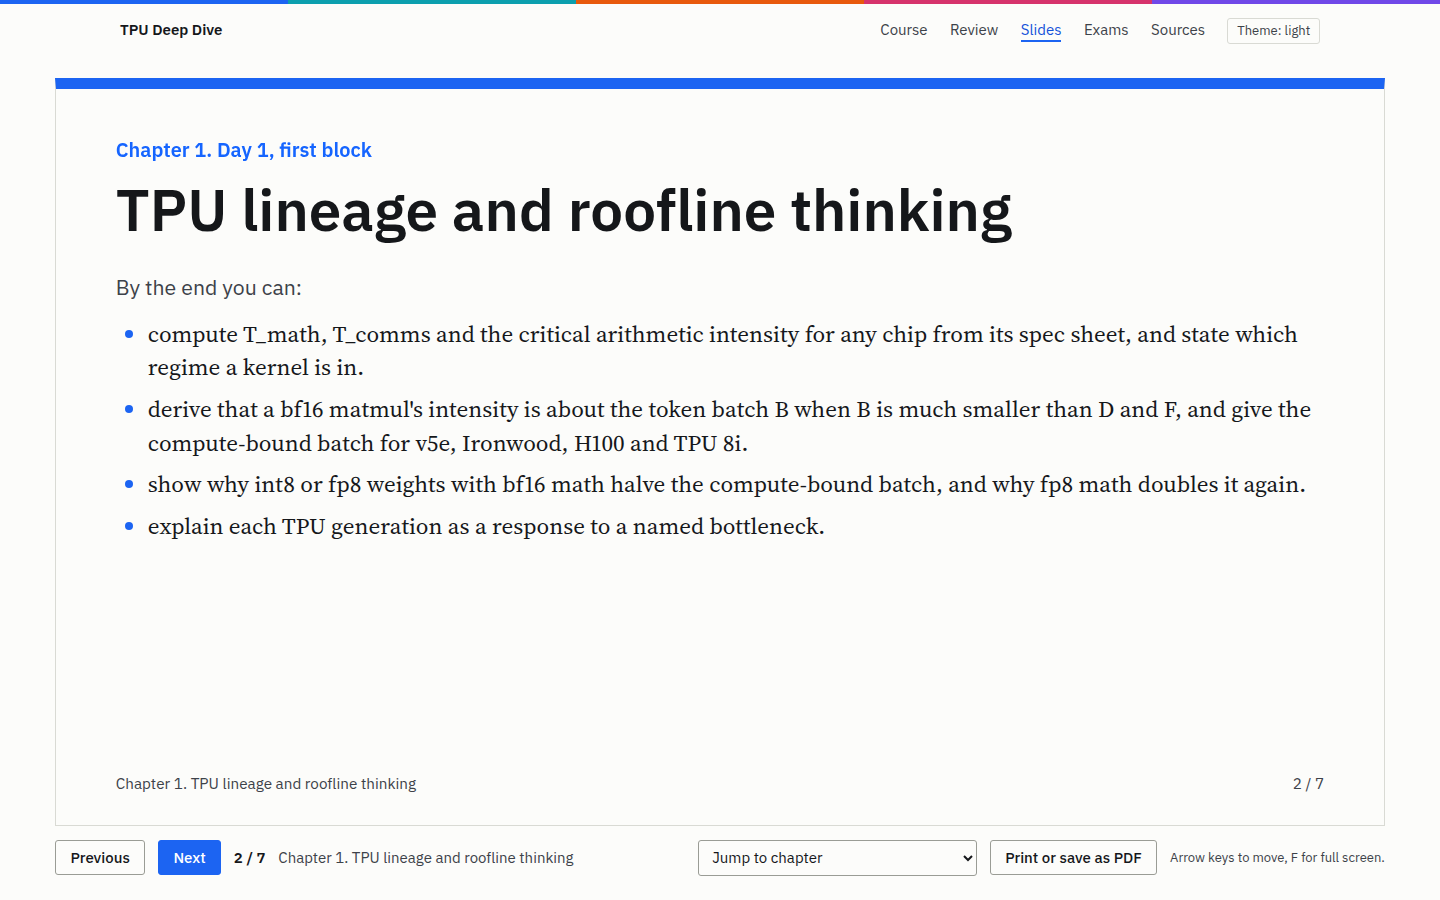
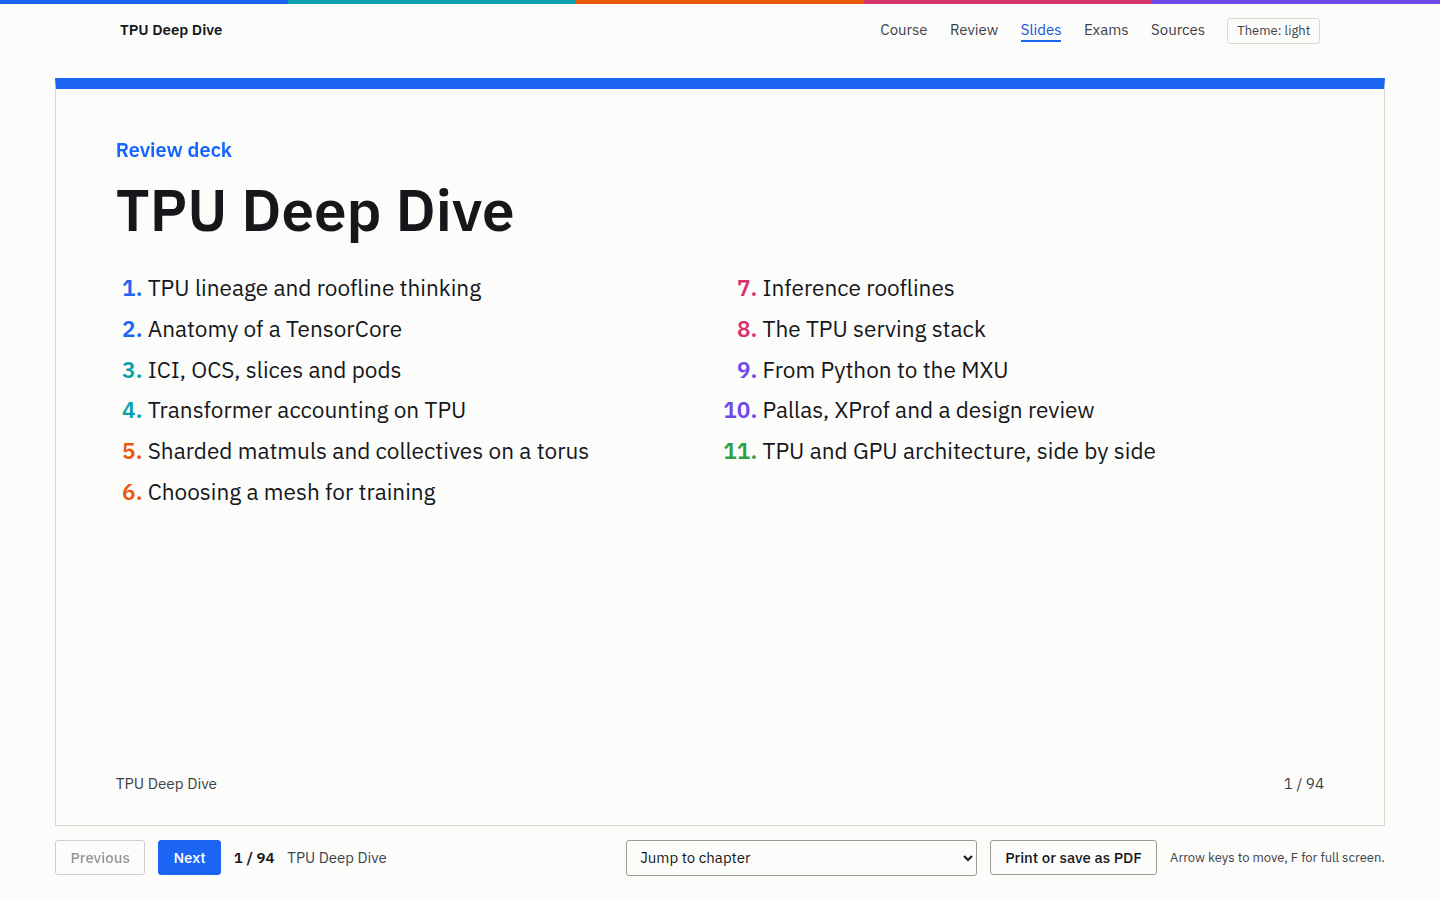
README, teaching notes, exam question mix, decisions, refreshed screenshots

diff --git a/src/lib/content.ts b/src/lib/content.ts
@@ -48,6 +48,7 @@ export interface ExamDef {
   count: number;
   earlier?: number;         // extra questions drawn from chapters before the primary pool
   per_chapter_min?: number;
+  mix?: Partial<Record<Question['type'], number>>; // minimum count per question type
 }
 
 type MdxModule = { default: ComponentType<{ components?: Record<string, unknown> }>; frontmatter: Record<string, any> };
@@ -116,21 +117,31 @@ function shuffle<T>(xs: T[]): T[] {
   return a;
 }
 
-/** Draw a fresh question set for an exam attempt. */
+/** Draw a fresh question set for an exam attempt: per-chapter minimums first,
+ *  then per-type minimums, then fill at random. */
 export function drawExam(def: ExamDef): Question[] {
-  const pool = def.chapters.flatMap(questions);
+  const pool = shuffle(def.chapters.flatMap(questions));
   const picked: Question[] = [];
+  const take = (q: Question) => { if (!picked.includes(q) && picked.length < def.count) picked.push(q); };
   if (def.per_chapter_min) {
-    for (const ch of def.chapters) picked.push(...shuffle(questions(ch)).slice(0, def.per_chapter_min));
+    for (const ch of def.chapters) shuffle(questions(ch)).slice(0, def.per_chapter_min).forEach(take);
   }
-  for (const q of shuffle(pool)) {
-    if (picked.length >= def.count) break;
-    if (!picked.includes(q)) picked.push(q);
+  for (const [type, min] of Object.entries(def.mix ?? {}) as [Question['type'], number][]) {
+    const have = picked.filter((q) => q.type === type).length;
+    pool.filter((q) => q.type === type && !picked.includes(q)).slice(0, Math.max(0, min - have)).forEach((q) => {
+      if (picked.length < def.count) picked.push(q);
+      else {
+        // Swap out a question of an over-represented type to make room.
+        const i = picked.findIndex((x) => x.type === 'mcq');
+        if (i >= 0) picked[i] = q;
+      }
+    });
   }
+  for (const q of pool) take(q);
   if (def.earlier) {
     const first = Math.min(...def.chapters.map((id) => chapter(id)?.number ?? 99));
     const earlier = chapters.filter((c) => c.number < first).flatMap((c) => questions(c.id));
     picked.push(...shuffle(earlier).slice(0, def.earlier));
   }
-  return picked;
+  return shuffle(picked);
 }

diff --git a/README.md b/README.md
@@ -1,0 +1,113 @@
+# TPU Deep Dive
+
+A self-paced course on TPU hardware and software for engineers who already know GPUs. It has 11 chapters: five days of two ~55-minute blocks each, plus a synthesis chapter comparing TPU, GPU and Trainium. Each chapter has prose with inline citations, interactive explainers, a quiz, spaced-repetition flashcards, a teach-back checklist and review slides. There are day exams, a 30-question final, and a whole-course slide deck.
+
+It is a static site (Vite + Preact + MDX) with no backend. Progress is stored in your browser.
+
+## Run it
+
+```bash
+npm install
+npm run dev        # http://localhost:5173
+npm run build      # static site in dist/
+npm run preview    # serve dist/ on http://localhost:4173
+```
+
+Node 20 or newer. `npm run dev` and `npm run build` regenerate `src/generated/sources.json` from `research/sources.md` first.
+
+## Publish on GitHub Pages
+
+1. Push the repository to GitHub, on the `main` branch.
+2. In the repository settings, under Pages, set Source to **GitHub Actions**.
+3. `.github/workflows/pages.yml` runs `npm run check` and `npm run build` on every push and publishes `dist/`.
+
+The build uses relative paths (`base: './'`) and hash routes (`#/ch/ch01`), so it works from any Pages URL without a 404 fallback.
+
+## Using the course
+
+| Where | What |
+|---|---|
+| Course (home) | The course map: days are columns, blocks are rows. Each cell shows three marks: read, quiz passed at 80%, teach-back saved. |
+| Chapter → Read | Prose, worked examples, interactives, and a source list with section anchors (left column on wide screens). |
+| Chapter → Quiz | 12 questions: recall, numeric (checked within a tolerance), spot-the-bottleneck, and one explain-to-a-GPU-engineer with a model answer. |
+| Chapter → Flashcards | About 20 cards, scheduled with SM-2. |
+| Chapter → Teach-back | Objectives as a checklist plus a written explanation; every saved attempt is kept for comparison. |
+| Review | All due flashcards across chapters. |
+| Slides | The whole course as one deck (`#/slides/all/0`), or one chapter (`#/slides/ch05/0`). |
+| Exams | Five day exams (10 questions plus 2 from earlier days) and a 30-question final. Each attempt draws a new set with minimum numbers of numeric, scenario and written questions. |
+
+Keyboard:
+
+- **Quiz:** 1–9 choose an option, Enter checks and advances, Ctrl+Enter submits a written answer, 1–3 self-grade it.
+- **Flashcards:** Space flips, 1–4 grade.
+- **Slides:** arrow keys, Space, Home/End, F for full screen. "Print or save as PDF" prints one slide per page.
+
+## Export flashcards and progress
+
+Open **Your data** (footer link or `#/data`):
+
+- **Export for Anki:** a tab-separated file with `front`, `back` and `tags` columns and HTML fields. In Anki use File → Import and tick "Allow HTML in fields". Formulas are exported as rendered KaTeX HTML, so add the KaTeX stylesheet to the card template or expect raw markup.
+- **Export with schedules (JSON):** every card plus its SM-2 state.
+- **Export / Import progress:** the whole localStorage state (key `tpudd:v1`) as JSON, to move between browsers or keep a backup.
+
+## Add or edit a chapter
+
+A chapter is a directory, `content/chapters/<id>/`, listed in `content/course.yaml`:
+
+```yaml
+- { id: ch12, number: 12, day: 6, block: 1, minutes: 55, title: "New chapter" }
+```
+
+Days 1–5 appear as map columns; a `day` above 5 appears in the full-width synthesis row.
+
+| File | Contents |
+|---|---|
+| `index.mdx` | Frontmatter (`objectives`, `teachback`, `sources`, optional `status: draft`) and the chapter body in Markdown. KaTeX math uses `$...$` and `$$...$$`, with `\tag{n.m}` for numbering. |
+| `quiz.yaml` | 8–12 questions. Types: `mcq` and `scenario` (each option has `text`, `why`, and exactly one `correct: true`), `numeric` (`answer`, `tolerance` relative, `unit`), `free` (`model_answer`). Optional `explanation`, `source` (e.g. `"SB1 #matrix-multiplication"`) and `adapted_from`. |
+| `cards.yaml` | 15–25 cards with `id`, `front`, `back` and `source`. Markdown and math are allowed and rendered at build time. |
+| `slides.mdx` | `<Slide title="...">...</Slide>` blocks. Use `<Cols>` for two columns, `<Big n="313">label</Big>` for a headline number, and plain tables and lists. Keep interactives out of slides; use `<ChipTable>` and static diagrams. |
+| `dumps/*.txt` | Optional generated listings, shown with `<Listing src="ch09/1_jaxpr.txt" title="..." />`. |
+
+Components available in `index.mdx` without imports (`src/components/mdx.tsx`):
+
+- `<Cite id="SB1" at="#matrix-multiplication" s="Q2" />`: an inline citation; the ID must exist in `research/sources.md`.
+- `<Gloss>`: the plain-English line under each formula.
+- `<GpuAnalogy>`, `<AnalogyBreaks>`, `<Note>` (margin note), `<Worked title="...">`, `<Wide>` (borrows the margin column).
+- `<Unverified />`, `<Provisional />`, `<Derived />`: visible tags.
+- `<ChipTable chips="7x H100" cols="bf16 fp8 hbm hbm_bw ai" />`: spec table from `scripts/specs.py`.
+- `<Interactive caption={...}>` wrapping any of the interactives:
+  - `RooflinePlotter`, `GenerationChart`, `SystolicArray`, `TensorCoreDiagram`, `TorusExplorer`, `ModelCalc`
+  - `ShardingSandbox`, `CollectiveViz`, `MeshPlanner`, `BreakevenCalc`, `ServingStackDiagram`
+  - `HloDecoder`, `TraceReader`, `CompareExplorer`
+
+`npm run check` lints content against the writing rules: banned phrases, exclamation marks and emoji. It also checks citation IDs, the quiz schema, question and card counts, and that each chapter has at least one question adapted from the Scaling Book. It also checks colour contrast.
+
+## Sources and numbers
+
+- `research/sources.md` lists every citable source with an ID, verification status and the precedence rule for conflicting numbers. Add a row there to make a new `<Cite id>` valid. `research/notes/` holds the raw reading notes; `research/syllabus.md` holds the plan.
+- `scripts/specs.py` holds every chip spec with its source. To add a chip, add an entry, then run `python3 scripts/specs.py --json` to regenerate `src/generated/chips.json`. Every interactive picks it up.
+- `scripts/model.py` (mirrored in `src/lib/model.ts`) holds transformer accounting and model presets.
+- `scripts/chNN_*.py` recompute every number used in each chapter. Run any of them with `python3 scripts/<name>.py` from the repository root.
+- Two scripts need JAX:
+  - `scripts/ch09_dump.py` generates the compiler listings in Chapter 9.
+  - `scripts/ch10_pallas_matmul.py` tests the Pallas kernel in interpret mode.
+
+  Run them with a JAX environment, for example:
+
+  ```bash
+  JAX_PLATFORMS=cpu XLA_FLAGS=--xla_force_host_platform_device_count=4 python scripts/ch09_dump.py
+  ```
+
+- `python3 scripts/check_urls.py` re-checks every source URL and writes `research/url_check.txt`.
+
+`DECISIONS.md` records the calls made while building the course.
+
+## Tests
+
+```bash
+npm run check                          # content lint and contrast
+npm run build && npm run preview &     # then:
+npm run test:e2e                       # keyboard-driven quiz, flashcard and teach-back flows in Chrome
+```
+
+`test:e2e` uses `playwright-core` with the system Chrome (`CHROME=/path/to/chrome` to override).

diff --git a/TEACHING_NOTES.md b/TEACHING_NOTES.md
@@ -1,0 +1,47 @@
+# Teaching notes: TPUs for GPU engineers in 90 minutes
+
+Audience: engineers fluent in CUDA, NCCL and H100/B200 performance. Goal: by the end they can predict whether a TPU workload is compute-, memory- or communication-bound, read a TPU profile, and say where TPU and GPU designs differ and why. Open the course site and the whole-course deck (`#/slides/all/0`) before starting; the demos are the interactives named below.
+
+## Agenda
+
+| Min | Segment | Make this point | Demo | Chapter |
+|---|---|---|---|---|
+| 0–10 | Why TPUs look the way they do | Each generation moved a ridge point. TPUv2 to Ironwood: FLOPs 50×, HBM bandwidth 10.5×, ridge 66 → 313 FLOP/B. TPU 8 split into training (8t) and inference (8i) chips. | Generation chart | 1 |
+| 10–25 | The chip | A TensorCore is an SM, not a Tensor Core: 2 per Ironwood chip against 132 SMs on an H100. One instruction stream; the compiler hides latency. 256×256 weight-stationary MXU: rows per weight tile = token batch (1.5% utilization at 8 rows, 80% at 2,048). 128 MiB of VMEM is a scratchpad, not a cache. | Systolic array; TensorCore diagram | 2 |
+| 25–40 | The network | No switch in the data path. A 3D torus of OCS-joined 4×4×4 cubes holds 9,216 chips at constant per-chip bandwidth. Ring AllGather costs V/W_ici whatever the ring size; AllToAll is ¼ of that in 1D. Small transfers are latency-bound at about 1 µs per hop, which is why 8i uses Boardfly (≤ 7 hops). | Torus explorer; ring collectives | 3, 5 |
+| 40–55 | Training | Everything depends on α = C/W_ici. v5p 2,550; Ironwood 11,535. LLaMA-3-70B at a 4M-token batch is compute-bound on a full v5p pod (FSDP+TP needs 113 tokens per chip) but not on a full Ironwood pod (needs about 2,320). GPU recipes pipeline because NVLink stops at 8 or 72; TPU recipes rarely need to. | Mesh planner (switch chip, same batch) | 6 |
+| 55–70 | Inference and serving | Decode step = KV read + max(weight read, FLOPs). LLaMA-3-70B on 8 Ironwood chips at 32k context: about 12 of 14 ms is KV. fp8 weights and KV double throughput; more FLOPs do nothing. vLLM's scheduler is unchanged on TPU; static shapes come from padded buckets and Ragged Paged Attention. New PyTorch ports go to vllm-torchtpu on TorchTPU. | Prefill/decode calculator; serving stack diagram | 7, 8 |
+| 70–80 | Software and profiling | XLA compiles the whole step (fusion, layouts, VMEM placement, collective schedule), unlike CUDA Graphs, which replay compiled kernels. Pallas grids are sequential loops, not thread blocks. In a trace, synchronous collectives are bars alone on the XLA Ops row; overlapped ones are -start/-done pairs. | HLO decoder; trace reader; Chapter 9 listings | 9, 10 |
+| 80–90 | Exercise and questions | Design review: LLaMA-3-70B on Ironwood, 30 ms per token at 32k. Answer: 4-chip replicas, fp8 weights and KV, batch about 140, about 1,250 tokens/s per chip, KV-bound; separate prefill servers. | Comparison explorer for TPU vs GPU follow-ups | 10, 11 |
+
+## Numbers to have on the board
+
+| | |
+|---|---|
+| BF16 ridge (FLOP/B) | v5e 241 · Ironwood 313 · H100 295 · GB200 312 · TPU 8i 128 (provisional) |
+| Compute-bound batch | about the ridge for bf16; halves with 8-bit weights and bf16 math; unchanged with 8-bit math at 2× rate |
+| Ironwood | 2,307 TFLOP/s BF16, 4,614 FP8, 192 GiB at 7.38 TB/s, 128 MiB VMEM, 2 chiplets = 2 JAX devices, 6 ICI links × 100 GB/s each way |
+| Collectives (ring, per axis) | AllGather = ReduceScatter = V/W; AllReduce = 2V/W; AllToAll = V/(4W); latency-bound below about 100 kB per hop on Ironwood |
+| α = C/W_ici | v5p 2,550 · Ironwood 11,535 · H100 across nodes 2,475 |
+| KV cache | 2·L·K·H·bytes per token; LLaMA-3-70B bf16: 320 KB per token, 10.7 GB at 32k |
+
+## Questions GPU engineers ask, and short answers
+
+- **"Isn't XLA just CUDA Graphs?"** No. A CUDA Graph replays kernels that are already compiled. XLA chooses fusion, the layout of every array, what lives in VMEM and when collectives run, as one program. The price is static shapes.
+- **"Where are the warps?"** There are none. One instruction stream per TensorCore; the compiler issues the next DMA before the current tile finishes.
+- **"How do you do NCCL?"** Collectives are HLO ops that XLA schedules and DMA engines execute. Overlap with matmuls (collective matmul) is a compiler transform, not a library.
+- **"Is the torus slower than NVLink?"** Inside 8 or 72 GPUs, often yes for AllToAll and small collectives: NVLink is one hop. Past that, the torus keeps full bandwidth to about 9,000 chips while GPUs drop to scale-out.
+- **"Can I bring my PyTorch model?"** Yes. vllm-torchtpu (TorchTPU, `torch.compile` to XLA) for serving, TorchTPU for training. The torchax path in tpu-inference still works. PyTorch/XLA is deprecated.
+- **"What is different about Ironwood?"** Five times v5p's FLOPs per chip with the same per-link ICI bandwidth, so training wants more tokens per chip. 8t doubles ICI.
+
+## Pitfalls to warn about
+
+- No wraparound on small slices (v5e below 16 per axis; Ironwood below a 4×4×4 cube): roughly 2× the collective time.
+- FSDP in decode: weights over ICI every step, an order-of-magnitude regression.
+- Dimensions not multiples of 256 (v6e, Ironwood), and head dimension 64, waste MXU capacity.
+- Shapes outside precompiled buckets in serving trigger minutes-long compiles.
+- Google's materials mix GB and GiB (192 "GB" against 192 GiB on Ironwood); check units before quoting capacity.
+
+## After the session
+
+Point people to the course: the Day 1 chapters, then the chapter matching their work (training: 5–6; serving: 7–8; kernels and profiling: 9–10). The Scaling Book (jax-ml.github.io/scaling-book) is the primary reference behind most of the numbers.

diff --git a/DECISIONS.md b/DECISIONS.md
@@ -28,3 +28,11 @@ Calls made without asking, per the brief. Newest last.
 24. **Review slides are built into the site** (user request): each chapter has a `slides.mdx` of `<Slide>` blocks, written alongside the chapter. `#/slides/all/0` is the whole-course deck, and it prints at one slide per page for a PDF. I chose this over a separate presentation file so the slides live in the repo, publish with the site and can be edited like the chapters.
 25. **Brighter palette** (user request): vivid blue accent `#1452D9` (filled `#1C64F2`), saturated green and orange callout rules, bright yellow flag tags, and one hue per day (blue, teal, orange, pink, violet; green for synthesis) on the map, chapter headers, worked examples and slides. Body text stays ≥7:1. Links and filled buttons were relaxed from 7:1 to 4.5:1 to allow the brighter blue. The header stripe uses hard colour stops, not a blend.
 26. **B_crit formula** written as (C_math / W_hbm) × (bytes per weight) / 2 throughout. The Scaling Book's β·C/W (β = weight bits / activation bits) is exact only for bf16 math; applied to fp8×fp8 it gives the ridge point, twice the true batch. Found while writing Chapter 7; Chapters 1 and 4 corrected in the same commit.
+27. **Slides contain static content only** (tables, lists, formulas, `ChipTable`, static diagrams). Interactives overflow a 16:9 frame; slides link back to chapters instead. Diagrams and listings are scaled to the slide body by CSS.
+28. **Unanswered Scaling Book problems are derived, labelled, and kept in scripts:** SB6 Q1–Q2 (`ch06_training.py`), SB8 Q3 (`ch08_serving.py`). SB4 Q1's "about 16B" is corrected to the exact 17.4B of the book's own formula.
+29. **LLaMA-3 8B and 405B shapes are taken from the Llama 3 paper (Table 3)**, added as source `P-Llama3`; the vocabulary uses 128,256 (the released tokenizer, as in SB6) rather than the paper's rounded "128,000".
+30. **Chapter 9 listings are real JAX 0.8.2 output on CPU** with 4 simulated devices (`scripts/ch09_dump.py`), labelled as CPU output; the TPU backend cannot be run here.
+31. **The Pallas example is executed** in interpret mode against `jnp.dot` (`scripts/ch10_pallas_matmul.py`); max error equals one bf16 ULP at the output's magnitude.
+32. **GPU and Trainium entries in `specs.py` carry a network model** (switched domain, per-direction link, node egress) for Chapter 11's comparisons. Trainium3's per-direction link rate (1.0 TB/s) is an assumption from AWS's 2.0–2.56 TB/s per-chip figures and is tagged provisional, as are Rubin's vendor figures.
+33. **The trace in Chapter 10 is illustrative**, labelled as such; no TPU profile could be captured for this course.
+34. **Exams enforce a question mix**: the final has at least 2 questions per chapter, 10 numeric, 4 scenario and 2 written; day exams at least 3 numeric, 2 scenario and 1 written. Checked over 200 simulated draws.

diff --git a/research/sources.md b/research/sources.md
@@ -13,7 +13,7 @@ Every source the course cites, with an ID used for inline citations in chapter c
 
 Status labels: **read** = fetched and read in full or in the cited sections. **live** = URL returned HTTP 200, content skimmed or not needed beyond the title. **blocked** = publisher blocks automated fetches (ACM returns 403); the DOI resolves and an open copy is given where one exists. **UNVERIFIED** = the claim or URL comes only from secondary reporting or search summaries.
 
-Link liveness for every URL in this file was re-checked by `scripts/check_urls.py` on 2026-10-23: 145 of 151 return HTTP 200, the 2 IEEE pages return 202, and the 4 ACM DOIs return 403 to scripts. Results are in `research/url_check.txt`.
+Link liveness for every URL in this file was re-checked by `scripts/check_urls.py` on 2026-10-24: 146 of 152 return HTTP 200, the 2 IEEE pages return 202, and the 4 ACM DOIs return 403 to scripts. Results are in `research/url_check.txt`.
 
 ---
 
